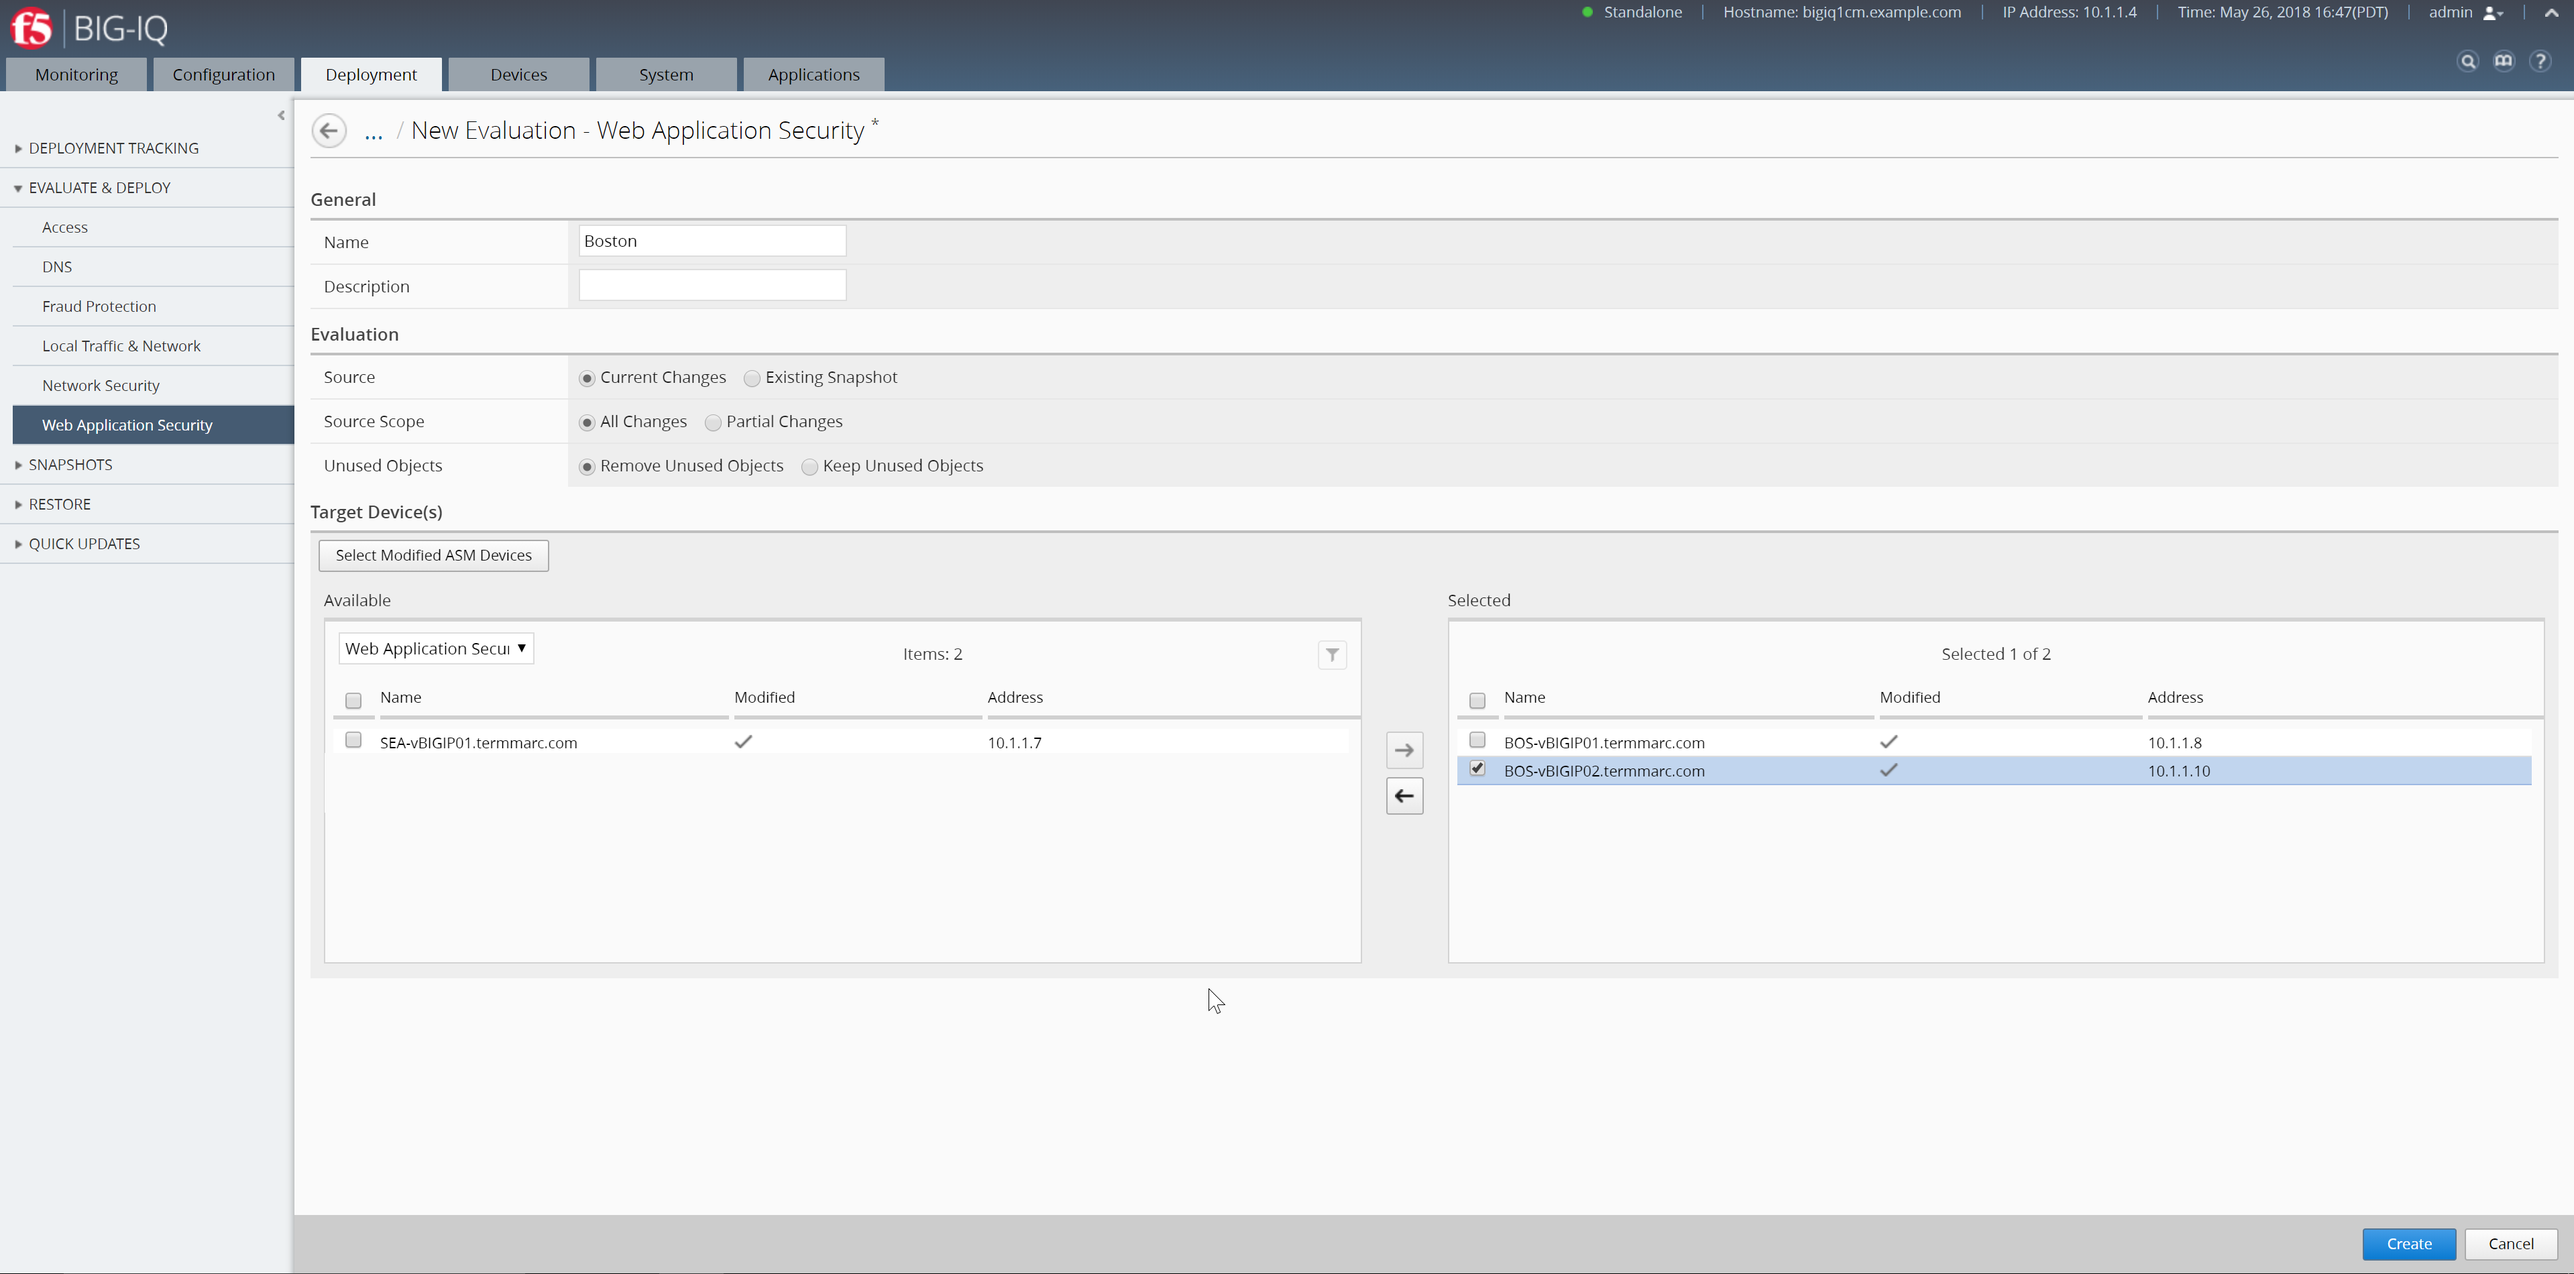
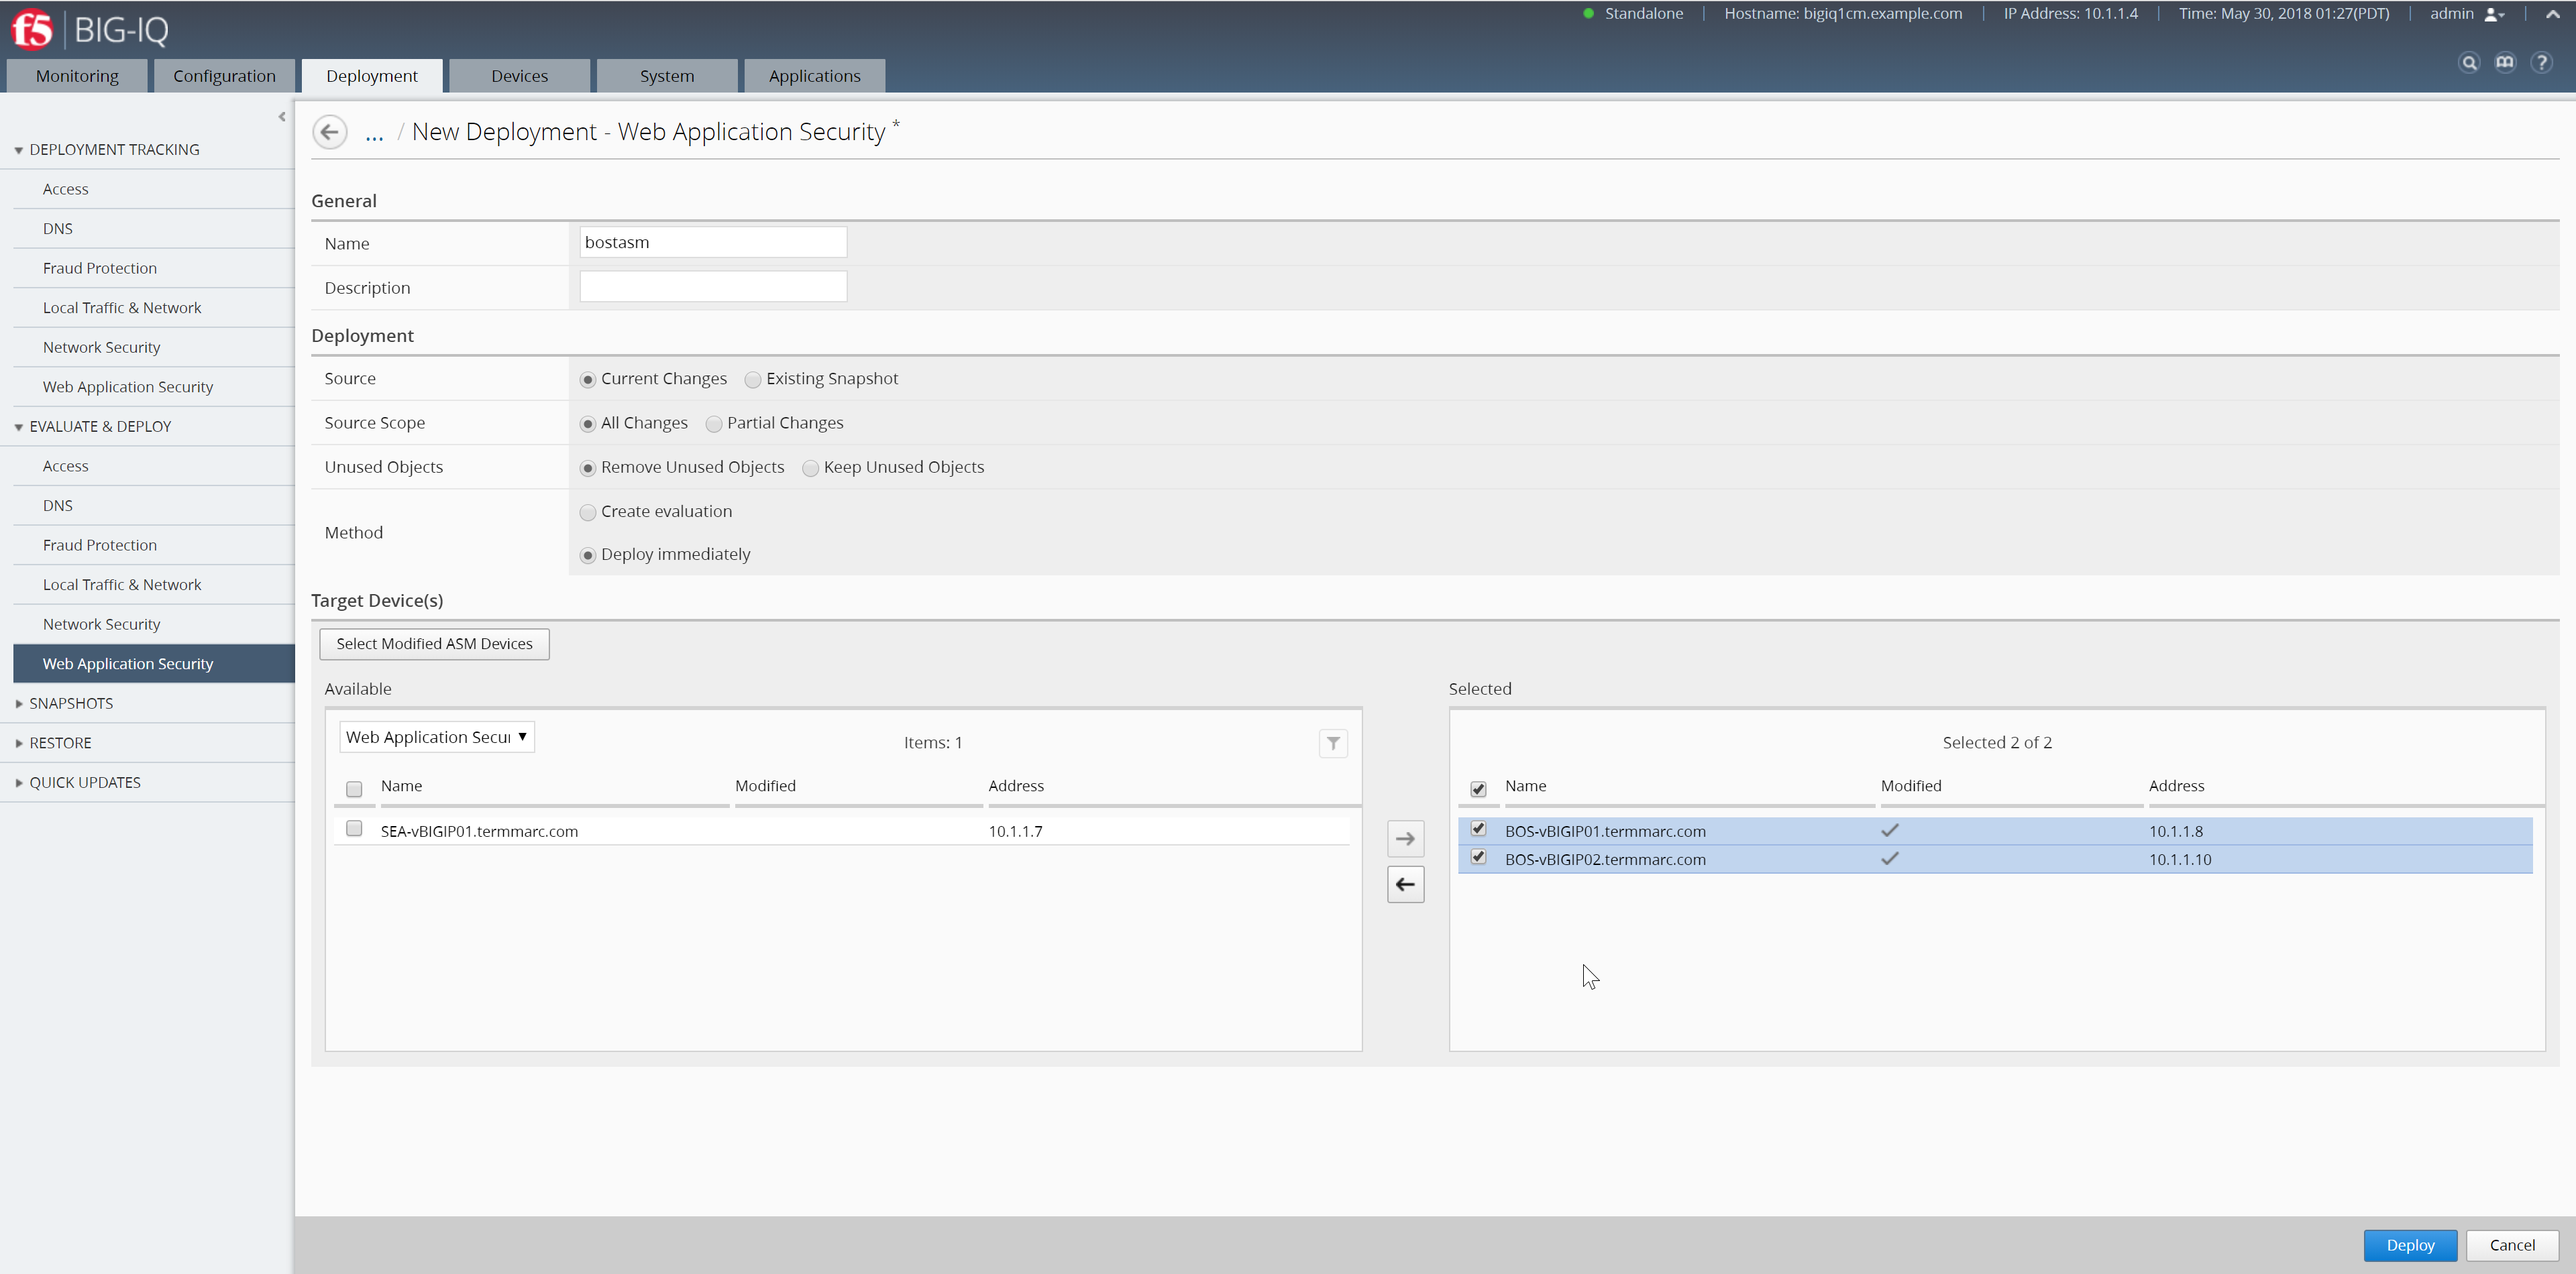
Minor Updates class1/class3

diff --git a/docs/class1/module2/lab2.rst b/docs/class1/module2/lab2.rst
@@ -1,6 +1,8 @@
 Lab 2.2: Create custom security policies & Application Service Template
 -----------------------------------------------------------------------
-Connect as **larry** to create the custom ASM policy, go to *Configuration* > *SECURITY* > *Web Application Security* > *policies*.
+Connect as **larry**
+
+1. Create the custom ASM policy, go to *Configuration* > *SECURITY* > *Web Application Security* > *policies*.
 
 .. image:: ../pictures/module2/img_module2_lab2_1.png
   :align: center
@@ -24,7 +26,9 @@ In addition, go to *POLICY BUILDING* > *Settings* and set *Policy Building Mode*
   :align: center
   :scale: 50%
 
-Create the AFM Policy, go to *Configuration* > *SECURITY* > *Network Security* > *Firewall Policies*, click Create.
+.. note:: If you want to use learning/blocking mode, you will need a dedicated app template per application.
+
+2. Create the AFM Policy, go to *Configuration* > *SECURITY* > *Network Security* > *Firewall Policies*, click Create.
 Then enter the name of your policy: ``f5-afm-policy1``. Make sure the box ``Make available in Application Templates`` is checked. Click Save.
 
 .. image:: ../pictures/module2/img_module2_lab2_5.png
@@ -46,7 +50,9 @@ Click Save & Close.
 
 |
 
-Connect as **marco** to create a Clone of the *Default-f5-HTTPS-WAF-lb-template* policy, go to *Applications* > *SERVICE CATALOG*, and click on *Clone*.
+Connect as **marco**
+
+1. Create a Clone of the *Default-f5-HTTPS-WAF-lb-template* policy, go to *Applications* > *SERVICE CATALOG*, and click on *Clone*.
 Enter the name of your cloned template: ``f5-HTTPS-WAF-lb-template-custom1``
 
 .. image:: ../pictures/module2/img_module2_lab2_7.png
@@ -55,7 +61,7 @@ Enter the name of your cloned template: ``f5-HTTPS-WAF-lb-template-custom1``
 
 |
 
-Then select the ASM policy ``viol_subviol``, the AFM policy ``f5-afm-policy1`` and the Logging Profile ``templates-default`` in the SECURITY POLICIES section on both Virtual Servers (Standalone Device).
+2. Then select the ASM policy ``viol_subviol``, the AFM policy ``f5-afm-policy1`` and the Logging Profile ``templates-default`` in the SECURITY POLICIES section on both Virtual Servers (Standalone Device).
 
 .. image:: ../pictures/module2/img_module2_lab2_8.png
   :align: center

diff --git a/docs/class3/module2/lab3.rst b/docs/class3/module2/lab3.rst
@@ -12,11 +12,13 @@ Click the box to select all suggestions and **Accept** the learning.
   :align: center
   :scale: 50%
 
+.. note:: If you want to use learning/blocking mode, you will need a dedicated app template per application, unless you want to share the learning amongs the applications using the same ASM policy.
+
 |
 
-2. Go to Deployment > EVALUATE & DEPLOY > Web Application Security > Policies
+2. Go to Deployment > EVALUATE & DEPLOY > Web Application Security
 
-Under Deployments, click on **Create**. Name your Deployment, select BOS-vBIGIP01.termmarc.com, click on **Create**.
+Under Deployments, click on **Create**. Name your Deployment, select BOS-vBIGIP01.termmarc.com, choose method **Deplot immediatly**, then click on **Create**.
 
 .. image:: ../pictures/module2/img_module2_lab3_2a.png
   :align: center
@@ -24,7 +26,7 @@ Under Deployments, click on **Create**. Name your Deployment, select BOS-vBIGIP0
 
 |
 
-4. Go back to Configuration > SECURITY > Web Application Security > Policies
+3. Go back to Configuration > SECURITY > Web Application Security > Policies
 
 Update the Enforcement Mode to ``Blocking``, Save and Close.
 

diff --git a/docs/class1/module2/lab4.rst b/docs/class1/module2/lab4.rst
@@ -25,9 +25,9 @@ Click on Suggestions, then Accept the Learning.
 
 |
 
-3. Go to Deployment > EVALUATE & DEPLOY > Web Application Security > Policies
+3. Go to Deployment > EVALUATE & DEPLOY > Web Application Security
 
-Under Deployments, click on **Create**. Name your Deployment, select SEA-vBIGIP01.termmarc.com, click on **Create**.
+Under Deployments, click on **Create**. Name your Deployment, select SEA-vBIGIP01.termmarc.com, choose method **Deplot immediatly**, then click on **Create**.
 
 .. image:: ../pictures/module2/img_module2_lab4_3b.png
   :align: center
